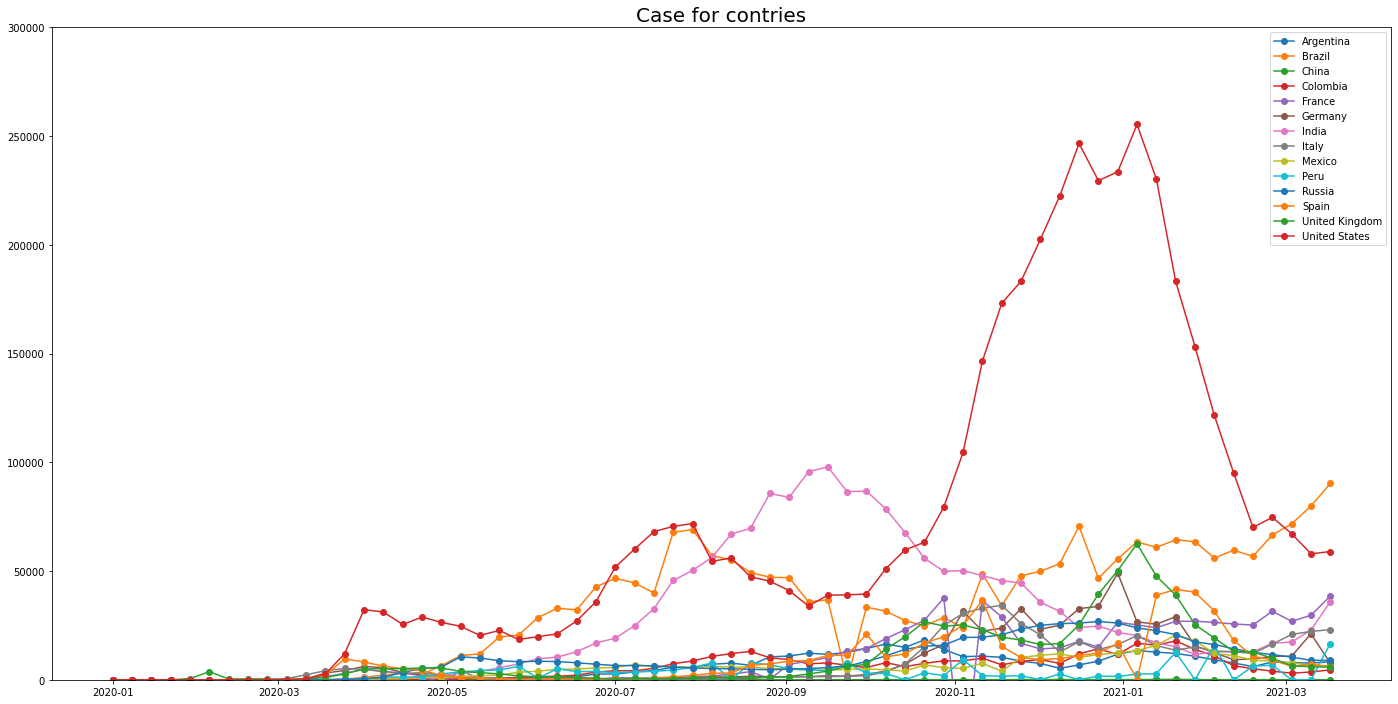
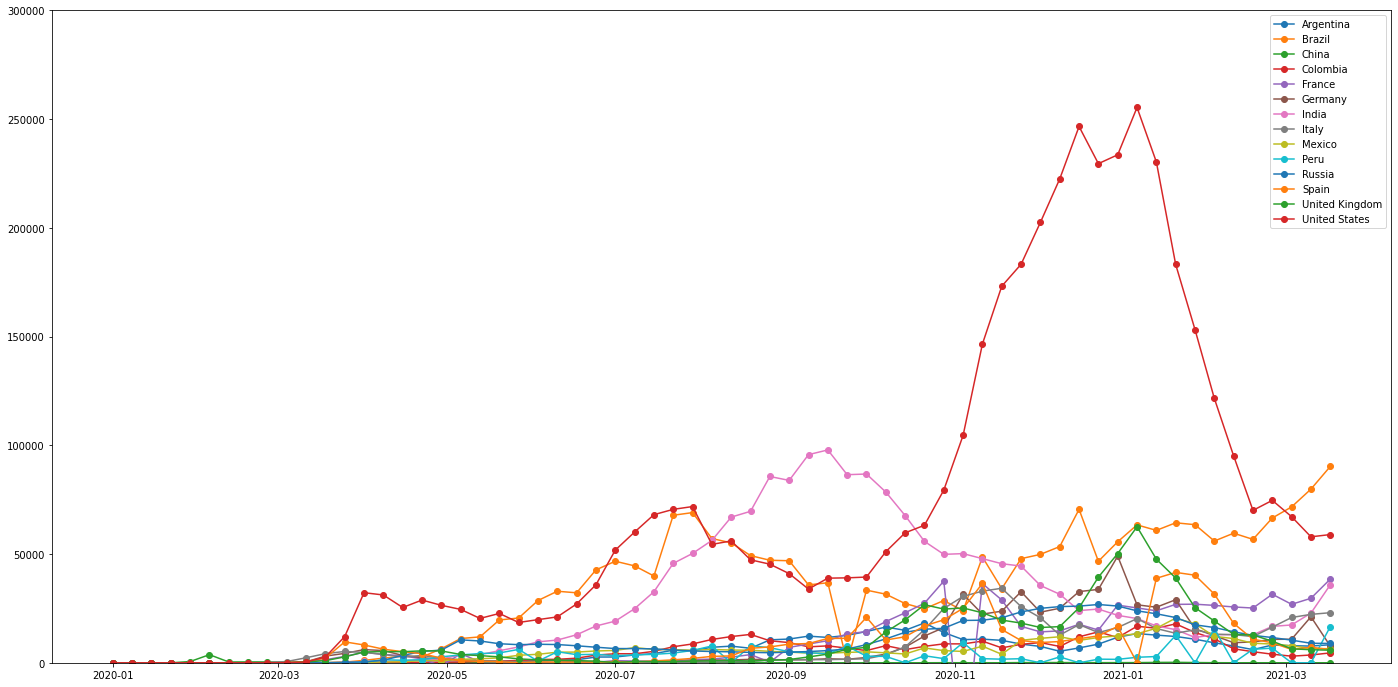
Modify: add files

diff --git a/covid-analysis.html b/covid-analysis.html
@@ -5,7 +5,7 @@ title: "Covid19 Template"
 
 parent: "dashboard"
 sub_parent: ""
-activePage: "analytics"
+activePage: "covid-analysis"
 plugins: ["chart_js", "vector_map", "date_range_picker"]
 ---
 <div class="row"> 
@@ -52,10 +52,10 @@ plugins: ["chart_js", "vector_map", "date_range_picker"]
         </ul>
         <div class="tab-content" id="pills-tabContent">
           <div class="tab-pane fade show active" id="pills-case" role="tabpanel" aria-labelledby="pills-case-tab">
-            <img src="assets/img/dashboard/cases.png" style="height: 100%" alt="total_cases">
+            <img src="assets/img/dashboard/cases.png" style="width: 100%" alt="total_cases">
           </div>
           <div class="tab-pane fade" id="pills-death" role="tabpanel" aria-labelledby="pills-death-tab">
-            <img src="assets/img/dashboard/deaths.png" style="height: 100%" alt="total_cases">
+            <img src="assets/img/dashboard/deaths.png" style="width: 100%" alt="total_cases">
           </div>
         </div>
       </div>
@@ -68,7 +68,7 @@ plugins: ["chart_js", "vector_map", "date_range_picker"]
         <h2>Fatality Rate</h2>
       </div>
       <div class="card-body" >
-        <img src="assets/img/dashboard/fatality_rate.png" style="height: 100%" alt="total_cases">
+        <img src="assets/img/dashboard/fatality_rate.png" style="width: 100%" alt="total_cases">
       </div>
     </div>
   </div>
@@ -80,7 +80,7 @@ plugins: ["chart_js", "vector_map", "date_range_picker"]
         <h2>Total Cases</h2>
       </div>
       <div class="card-body">
-        <img src="assets/img/dashboard/total_cases.png" style="height: 100%" alt="total_cases">
+        <img src="assets/img/dashboard/total_cases.png" style="width: 100%" alt="total_cases">
       </div>
       <div class="card-footer d-flex flex-wrap bg-white p-0">
         <div class="col-6 px-0">
